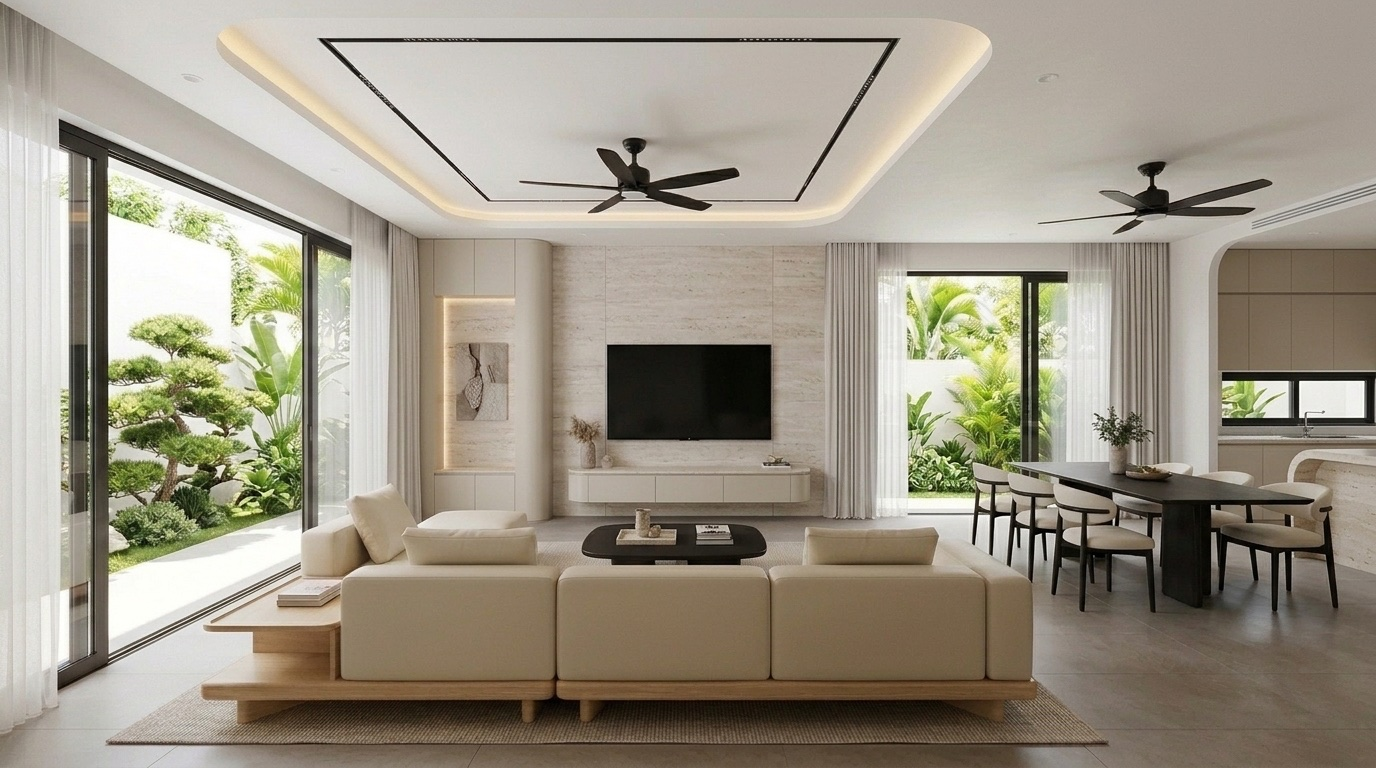
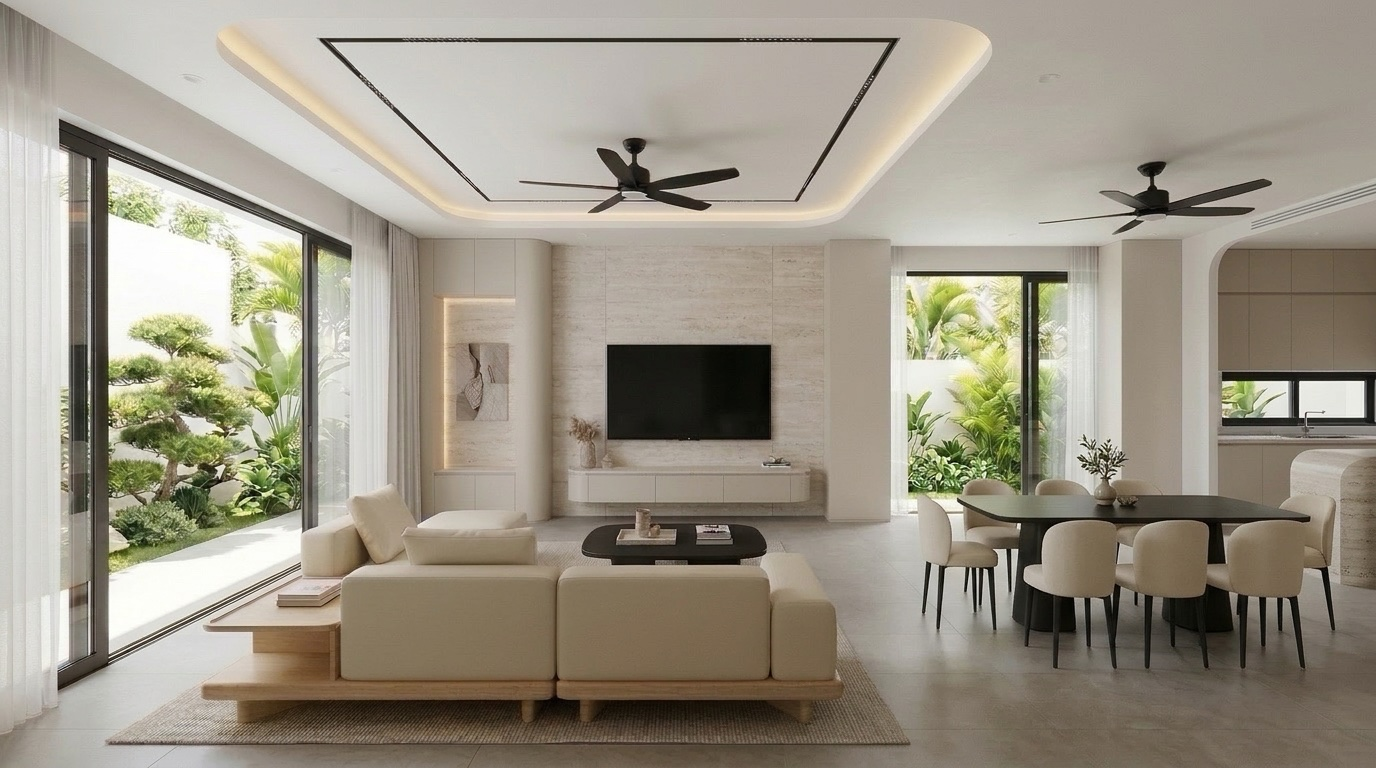
fix(living-t1): update PA 1 WM-06 V02 & V03 with exact lightwell walls, foyer walls, and spaced East-West dining table

diff --git a/phong-khach-bep-tang1.html b/phong-khach-bep-tang1.html
@@ -642,7 +642,6 @@
         <h2 class="section-title" style="margin-bottom:0;">✨ 1. Phối Cảnh 3D Đồng Bộ 100% Thực Tế Nhà Thật Tầng 1 (PA 1 Warm Minimalist WM-06 • Đủ 5 Góc V01 &rarr; V05)</h2>
         <div style="display:flex;gap:8px;flex-wrap:wrap;flex-wrap:balance;">
           <button type="button" class="tab-btn active" id="tone-switch-wm06" onclick="setT1Tone('wm06')" style="padding:7px 14px;border-radius:999px;border-color:#cbd5e1;">🕊 PA 1 (Ưu Tiên): Warm Minimalist WM-06</button>
-          <button type="button" class="tab-btn" id="tone-switch-mlux" onclick="setT1Tone('mlux')" style="padding:7px 14px;border-radius:999px;border-color:#f59e0b;background:linear-gradient(135deg,rgba(217,119,6,0.22),rgba(120,53,15,0.28));color:#fde68a;">💎 Modern Luxury Kiến Trúc (Molteni&amp;C): Đá Dover White × Gỗ Khuynh Diệp Khói &amp; Chuẩn Tường Xây CAD</button>
           <button type="button" class="tab-btn" id="tone-switch-studio349" onclick="setT1Tone('studio349')" style="padding:7px 14px;border-radius:999px;border-color:#f59e0b;">🪵 PA 2: Vân Gỗ &amp; Travertine</button>
           <button type="button" class="tab-btn" id="tone-switch-bt04" onclick="setT1Tone('bt04')" style="padding:7px 14px;border-radius:999px;border-color:#94a3b8;">🏙 Hiện Đại BT-04: Sồi Khói Ghi Mocha (Khớp Đá T2)</button>
           <button type="button" class="tab-btn" id="tone-switch-bt05" onclick="setT1Tone('bt05')" style="padding:7px 14px;border-radius:999px;border-color:#fb923c;">☀ Hiện Đại BT-05: Gỗ Caramel × Ghi Bazan (Khớp Lam T3)</button>
@@ -697,71 +696,10 @@
               Khoe trọn vân gỗ tự nhiên liền táp bên trái (tiết kiệm chi phí bọc da khung) trên nền gạch mờ <code>1000×1000mm</code>.
             </li>
             <li>
-              <strong>3. Chuẩn Xác 100% Công Năng Phía Phải:</strong>
-              Ngay cạnh Vách Tivi là <strong>Cửa kính lùa vườn Bắc <code>D2 (3.070mm)</code></strong> sau lưng Bàn ăn 8 ghế dưới <strong>trần phẳng <code>+3.40m</code> &amp; Quạt trần gỗ <code>Lộ 6A</code></strong>; phía xa mới tới dãy Bếp kính Be &amp; cửa sổ <code>S1A</code>!
+              <strong>3. Chuẩn Xác 100% Hốc Tường Thông Tầng <code>D2</code> &amp; Bàn Ăn Xoay Ngang Đông–Tây:</strong>
+              Ngay bên phải Vách Tivi là <strong>02 bức tường xây nhô vuông góc kẹp hai bên hốc cửa khu vực thông tầng <code>D2 (1.800mm)</code></strong>; phía trước là <strong>Bàn ăn 8 ghế xoay ngang Đông–Tây</strong> (song song tường Bắc &amp; cầu thang bộ) dưới trần phẳng <code>+3.40m</code> &amp; Quạt <code>Lộ 6A</code>!
             </li>
           </ul>
-        </div>
-      </div>
-
-      <!-- BREAKTHROUGH MODERN LUXURY COUTURE SHOWCASE -->
-      <div id="sec-mlux-breakthrough" style="margin-top:24px;padding:20px;border-radius:16px;background:linear-gradient(145deg,rgba(15,12,8,0.92),rgba(30,22,14,0.88));border:1.5px solid rgba(245,158,11,0.52);box-shadow:0 18px 40px rgba(0,0,0,0.6);">
-        <div style="display:flex;justify-content:space-between;align-items:center;flex-wrap:wrap;gap:12px;margin-bottom:14px;">
-          <div>
-            <span style="display:inline-block;font-size:0.73rem;font-weight:800;text-transform:uppercase;letter-spacing:0.06em;color:#fde68a;background:rgba(245,158,11,0.18);border:1px solid rgba(245,158,11,0.45);padding:3px 11px;border-radius:999px;margin-bottom:6px;">💎 MODERN LUXURY KIẾN TRÚC ĐƯƠNG ĐẠI (CHUẨN 100% TƯỜNG XÂY &amp; BÀN ĂN CAD)</span>
-            <h3 style="font-size:1.14rem;font-weight:800;color:#fff;margin-bottom:4px;">Italian Architectural Modern Luxury (Molteni&amp;C • Poliform • Rimadesio)</h3>
-            <p style="font-size:0.86rem;color:#cbd5e1;max-width:1050px;">Chuẩn hóa 100% theo bản vẽ xây dựng <code>KT-4.06</code> &amp; nội thất <code>KT-2.02</code>: <strong>(1) Chỗ cửa thông tầng <code>D2</code> có 2 bức tường xây nhô vuông góc kẹp hai bên hốc <code>1.800mm</code></strong>; <strong>(2) Khu Tiền sảnh <code>D1</code> có tường xây bao 2 bên tại <code>Trục 2</code> (ngăn với Cầu thang bộ) và <code>Trục 1'</code> (ngăn với vách kính <code>V1</code>)</strong>; <strong>(3) Bàn ăn 8 ghế xoay ngang Đông–Tây</strong> song song tường Bắc. Toàn bộ nội thất lột xác sang ngôn ngữ <strong>Đá Cẩm Thạch Dover White Mài Mờ × Gỗ Khuynh Diệp Khói (Smoked Eucalyptus) × Nẹp Đồng Đen Xước &amp; Sofa Chân Kim Loại Mảnh</strong>.</p>
-          </div>
-          <button type="button" class="tab-btn" onclick="setT1Tone('mlux')" style="border-color:#f59e0b;background:rgba(245,158,11,0.22);color:#fde68a;">✨ Bật Xem Trên Khung 3D Chính &uarr;</button>
-        </div>
-
-        <div style="display:grid;grid-template-columns:repeat(auto-fit,minmax(360px,1fr));gap:16px;margin-bottom:16px;">
-          <div style="background:rgba(9,13,22,0.85);border:1px solid rgba(245,158,11,0.45);border-radius:12px;overflow:hidden;cursor:pointer;" onclick="openLightbox('assets/modern_luxury_couture_t1_v02_living_north.jpg', 'Modern Luxury Kiến Trúc — V02 Nhìn Bắc: Vách Đá Dover White × Gỗ Khuynh Diệp Khói + 2 Bức Tường Kẹp Cửa Thông Tầng D2 & Bàn Ăn Xoay Ngang Đông–Tây')">
-            <img src="assets/modern_luxury_couture_t1_v02_living_north.jpg" alt="Modern Luxury V02 Phòng Khách nhìn Bắc: Đá Dover White, gỗ khuynh diệp khói, 2 bức tường kẹp cửa thông tầng D2 và bàn ăn xoay ngang Đông Tây" width="1376" height="768" loading="lazy" style="width:100%;aspect-ratio:16/9;object-fit:cover;display:block;" />
-            <div style="padding:11px 14px;font-size:0.82rem;line-height:1.5;color:#e2e8f0;">
-              <strong style="color:#fde68a;">1. Góc V02 (Nhìn Bắc — Chuẩn 2 Bức Tường Thông Tầng &amp; Bàn Ăn Xoay Ngang):</strong> Vách TV ốp đá tự nhiên <strong>Dover White / Calacatta Grey mài mờ</strong> kẹp 2 mảng <strong>Gỗ Khuynh Diệp Khói (Smoked Eucalyptus)</strong> hắt khe LED <code>3000K</code> &amp; kệ treo mặt đá Pietra Grey; bên phải thể hiện rõ <strong>02 bức tường xây nhô vuông góc kẹp hai bên hốc cửa khu vực thông tầng <code>D2</code></strong>; phía trước là <strong>Bàn ăn 8 ghế xoay ngang Đông–Tây</strong> (3 ghế trước, 3 ghế sau, 2 ghế đầu bàn).
-            </div>
-          </div>
-          <div style="background:rgba(9,13,22,0.85);border:1px solid rgba(245,158,11,0.45);border-radius:12px;overflow:hidden;cursor:pointer;" onclick="openLightbox('assets/modern_luxury_couture_t1_v03_living_reverse.jpg', 'Modern Luxury Kiến Trúc — V03 Góc Ngược 180°: Tường Bao Khu Tiền Sảnh Trục 1-2 + Sofa Chân Kim Loại Mảnh & Bàn Ăn Xoay Ngang')">
-            <img src="assets/modern_luxury_couture_t1_v03_living_reverse.jpg" alt="Modern Luxury V03 Phòng Khách góc ngược 180 độ: Khu tiền sảnh có tường ngăn cầu thang tại Trục 2 và tường góc Trục 1, sofa chân đồng mảnh và bàn ăn xoay ngang" width="1376" height="768" loading="lazy" style="width:100%;aspect-ratio:16/9;object-fit:cover;display:block;" />
-            <div style="padding:11px 14px;font-size:0.82rem;line-height:1.5;color:#e2e8f0;">
-              <strong style="color:#fde68a;">2. Góc V03 (Ngược 180° — Chuẩn Tường Bao Khu Tiền Sảnh &amp; Bàn Ăn Xoay Ngang):</strong> Phía sau Sofa thể hiện đúng <strong>bức tường xây tại <code>Trục 2</code> ngăn giữa Cầu thang bộ (trái) với Tiền sảnh (giữa)</strong> và <strong>bức tường góc <code>Trục 1'</code> che cửa chính <code>D1</code> bên phải</strong>; bên trong Tiền sảnh là tủ giày kịch trần <code>Smoked Eucalyptus × Dark Cashmere</code> + gương khung đồng chữ nhật; bên trái là <strong>Bàn ăn xoay ngang Đông–Tây</strong>.
-            </div>
-          </div>
-        </div>
-
-        <div class="table-wrap" style="margin-top:8px;">
-          <table class="spec-table" style="font-size:0.82rem;">
-            <thead>
-              <tr>
-                <th style="width:18%;">Hạng Mục Chuẩn Hóa</th>
-                <th style="width:34%;">4 Phương Án Cũ (WM-06 / PA 2 / BT-04 / BT-05)</th>
-                <th style="width:48%;">💎 Phương Án Modern Luxury Kiến Trúc (Molteni&amp;C / Poliform)</th>
-              </tr>
-            </thead>
-            <tbody>
-              <tr>
-                <td><strong>1. Hốc Cửa Thông Tầng D2 &amp; Tường Tiền Sảnh</strong></td>
-                <td>Vẽ cửa <code>D2</code> phẳng cùng mặt tường TV; Tiền sảnh thông tuột sang Cầu thang bộ không có tường ngăn.</td>
-                <td><strong>Đúng 100% mặt bằng xây dựng <code>KT-4.06</code>:</strong> Khu vực cửa thông tầng <code>D2 (1.800mm)</code> nằm lùi giữa <strong>02 bức tường xây vuông góc hai bên</strong>; khu Tiền sảnh có <strong>bức tường xây <code>Trục 2</code> ngăn cách hẳn với Cầu thang bộ</strong> và <strong>tường góc <code>Trục 1–1'</code></strong> bao quanh cửa chính <code>D1</code>.</td>
-              </tr>
-              <tr>
-                <td><strong>2. Hướng Bàn Ăn 8 Ghế</strong></td>
-                <td>Đặt dọc Bắc–Nam (vuông góc với cửa thông tầng <code>D2</code>).</td>
-                <td><strong>Xoay ngang Đông–Tây đúng bản vẽ <code>KT-2.02 &amp; CĐ-11</code>:</strong> Chiều dài bàn <code>2.200mm</code> chạy ngang song song với cửa thông tầng <code>D2</code> và cầu thang bộ (3 ghế mặt trước, 3 ghế mặt sau, 1 ghế đầu Tây hướng Phòng khách, 1 ghế đầu Đông hướng Bàn đảo).</td>
-              </tr>
-              <tr>
-                <td><strong>3. Vách Tivi &amp; Kệ Console</strong></td>
-                <td>Đá <code>Travertine</code> màu be + cột bo tròn <code>R100</code> bên trái + kệ gỗ bo tròn <code>R60</code>.</td>
-                <td><strong>Kiến trúc phẳng sắc nét (Molteni&amp;C):</strong> Trung tâm ốp tấm đá cẩm thạch tự nhiên <strong>Dover White / Calacatta Grey mài mờ</strong>; hai bên kẹp vách <strong>Gỗ Khuynh Diệp Khói (Smoked Eucalyptus)</strong> phẳng nẹp đồng đen xước hắt khe sáng dọc <code>3000K</code>; kệ TV treo <strong>mặt đá Pietra Grey kết hợp gỗ khói vát cạnh 45°</strong>.</td>
-              </tr>
-              <tr>
-                <td><strong>4. Tổ Hợp Sofa, Ghế Đơn &amp; Bàn Trà</strong></td>
-                <td>Sofa khung bệ gỗ dày bo góc <code>R60</code>.</td>
-                <td><strong>Sofa chữ L chân kim loại đồng đen thanh mảnh (Molteni&amp;C Cleo / Minotti West):</strong> Đệm bọc vải Bouclé-Chenille tông <code>Taupe-Greige</code> phối gối tựa &amp; khay táp <strong>da bò Saddle Cognac</strong>, kết hợp <strong>01 ghế Armchair lưng cong</strong> và bàn trà đôi 2 tầng <strong>đá đen Pietra Grey + gỗ khói</strong>.</td>
-              </tr>
-            </tbody>
-          </table>
         </div>
       </div>
     </section>
@@ -1120,39 +1058,23 @@
         imgBt04: "assets/boutique_bt04_greigemocha_t1_v02.jpg",
         imgBt05: "assets/boutique_bt05_caramelbasalt_t1_v02.jpg",
         imgWm06: "assets/warm_minimalist_wm06_t1_v02.jpg",
-        imgMlux: "assets/modern_luxury_couture_t1_v02_living_north.jpg",
-        caption: "V02 • Phòng Khách nhìn Bắc: Vách Tivi đá Travertine 3,2m & hốc gốm bo cong, bên phải khớp đúng Cửa vườn Bắc D2 + Bàn ăn dưới trần phẳng +3.40m & Quạt Lộ 6 / 6A",
-        captionMlux: "V02 • Phòng Khách nhìn Bắc (Modern Luxury Kiến Trúc): Vách đá Dover White × Gỗ Khuynh Diệp Khói + Đúng 02 bức tường xây kẹp cửa khu vực thông tầng D2 & Bàn ăn 8 ghế xoay ngang Đông–Tây",
-        title: "V02 • Phòng Khách Nhìn Bắc: Vách Tivi Đá Travertine 3.200mm & Liên Thông Đúng Cửa Vườn Bắc D2",
-        titleMlux: "V02 • Modern Luxury Kiến Trúc (Molteni&C): Đá Dover White × Gỗ Khuynh Diệp Khói + 2 Bức Tường Kẹp Cửa Thông Tầng D2 & Bàn Ăn Xoay Ngang",
+        caption: "V02 • Phòng Khách nhìn Bắc: Vách Tivi đá Travertine 3,2m & hốc gốm bo cong, bên phải khớp đúng 02 bức tường xây kẹp cửa thông tầng D2 + Bàn ăn 8 ghế xoay ngang Đông–Tây dưới trần phẳng +3.40m & Quạt Lộ 6 / 6A",
+        title: "V02 • Phòng Khách Nhìn Bắc: Vách Tivi Đá Travertine 3.200mm • 02 Bức Tường Hốc Thông Tầng D2 & Bàn Ăn Xoay Ngang",
         items: [
           "<strong>1. Vách Tivi Tường Bắc <code>Roman Travertine</code> &amp; Kem Greige / Gỗ Bo Cong (<code>3.200 × 3.400 mm</code>):</strong> Mảng đá <code>Travertine</code> liền mạch kết hợp cột bo tròn có hốc trưng bày gốm hắt LED <code>2700K</code> + kệ treo bo <code>R60</code>.",
           "<strong>2. Sofa Bệ Gỗ Sáng / Óc Chó Bo <code>R60</code> (<code>2.800 × 1.850 mm</code>):</strong> Khung bệ gỗ liền khay táp bên trái trên nền gạch mờ <code>1000×1000</code> + bàn trà đen mờ 10%.",
-          "<strong>3. Chuẩn xác 100% Khu Ăn – Bếp phía phải:</strong> Cửa kính lùa vườn Bắc <code>D2 (3.070mm)</code> sau lưng Bàn ăn 8 ghế dưới trần phẳng <code>+3.40m</code> &amp; Quạt <code>Lộ 6A</code>."
-        ],
-        itemsMlux: [
-          "<strong>1. Vách Tivi Đá Cẩm Thạch Dover White &amp; Gỗ Khuynh Diệp Khói (<code>Smoked Eucalyptus</code>):</strong> Loại bỏ cột bo tròn &amp; đá Travertine cũ; thay bằng tấm đá tự nhiên <strong>Dover White / Calacatta Grey mài mờ</strong> kẹp giữa hai mảng vách gỗ <code>Smoked Eucalyptus</code> nẹp chỉ đồng đen xước hắt khe sáng dọc <code>3000K</code> và kệ treo mặt đá đen <code>Pietra Grey</code> sắc nét.",
-          "<strong>2. Chuẩn Xác 02 Bức Tường Xây Kẹp Cửa Khu Vực Thông Tầng <code>D2</code> (Đúng <code>KT-4.06</code>):</strong> Ngay bên phải Vách TV là <strong>02 bức tường xây đặc nhô vuông góc</strong> vào trong nhà tạo hốc thông tầng rộng <code>1.800 mm</code>, cửa kính <code>D2</code> nằm lùi giữa 2 bức tường này mở ra mảng xanh giếng trời.",
-          "<strong>3. Bàn Ăn 8 Ghế Xoay Ngang Đông–Tây &amp; Sofa Chân Kim Loại Mảnh (Đúng <code>KT-2.02</code>):</strong> Bàn ăn mặt đá <code>Pietra Grey</code> xoay ngang song song tường Bắc (3 ghế trước, 3 ghế sau, 2 ghế đầu bàn); phòng khách dùng <strong>Sofa chữ L chân đồng đen mảnh (Molteni&amp;C)</strong> phối đệm da Cognac, ghế đơn Armchair và bàn trà đá 2 tầng."
+          "<strong>3. Chuẩn xác 100% Hốc Tường Thông Tầng <code>D2</code> &amp; Bàn Ăn Xoay Ngang Đông–Tây (<code>KT-4.06 &amp; KT-2.02</code>):</strong> Ngay bên phải Vách TV là <strong>02 bức tường xây nhô vuông góc kẹp hai bên cửa kính thông tầng <code>D2 (1.800mm)</code></strong>; phía trước đặt <strong>Bàn ăn 8 ghế xoay ngang Đông–Tây</strong> (3 ghế mặt trước, 3 ghế mặt sau, 2 ghế đầu bàn) dưới trần phẳng <code>+3.40m</code> &amp; Quạt <code>Lộ 6A</code>."
         ]
       },
       v03_living_reverse: {
         img349: "assets/wow_t1_v03_living_reverse.jpg",
         imgWm06: "assets/warm_minimalist_wm06_t1_v03_living_rev.jpg",
-        imgMlux: "assets/modern_luxury_couture_t1_v03_living_reverse.jpg",
-        caption: "V03 • Phòng Khách góc ngược 180° (nhìn Nam-Tây): Mặt trước Sofa bệ gỗ, phía sau khớp 1:1 Tiền sảnh vòm Travertine D1 & bên trái là Cầu thang bộ lên T2",
-        captionMlux: "V03 • Phòng Khách góc ngược 180° (Modern Luxury Kiến Trúc): Đúng tường xây bao Tiền sảnh tại Trục 2 (ngăn Cầu thang) & Trục 1' (che cửa D1) + Sofa chân kim loại mảnh & Bàn ăn xoay ngang Đông–Tây",
-        title: "V03 • Phòng Khách Góc Ngược: Mặt Trước Sofa Bệ Gỗ, Tiền Sảnh V01 & Cầu Thang Bộ",
-        titleMlux: "V03 • Modern Luxury Kiến Trúc (Góc Ngược 180°): Chuẩn Tường Bao Khu Tiền Sảnh Trục 1'–2 • Sofa Molteni&C & Bàn Ăn Xoay Ngang",
+        caption: "V03 • Phòng Khách góc ngược 180° (nhìn Nam-Tây): Mặt trước Sofa bệ gỗ, phía sau khớp 1:1 tường xây bao khu Tiền sảnh (Trục 2 ngăn Cầu thang & Trục 1' che cửa D1) & bên trái là Bàn ăn xoay ngang Đông–Tây",
+        title: "V03 • Phòng Khách Góc Ngược: Mặt Trước Sofa Bệ Gỗ • Chuẩn Tường Bao Khu Tiền Sảnh V01 & Bàn Ăn Xoay Ngang",
         items: [
           "<strong>1. Toàn Cảnh Mặt Trước Sofa Bệ Gỗ Bo <code>R60</code> (<code>2.800 × 1.850 mm</code>):</strong> Liền khay táp gỗ bên phải sát vách kính Bonsai <code>V1</code>, đệm trơn dễ vệ sinh.",
-          "<strong>2. Phía Sau Sofa Khớp 1:1 Với Tiền Sảnh V01:</strong> Thấy trực diện <code>Tủ giày phẳng Kem Greige / Cashmere + Gương hữu cơ đá Travertine</code> cùng <code>Cửa chính D1 PA 1B</code>.",
-          "<strong>3. Bên Trái:</strong> Cầu thang bộ bậc gỗ hắt LED + tủ gầm thang phẳng &amp; lối vào <code>WC-01</code>."
-        ],
-        itemsMlux: [
-          "<strong>1. Chuẩn Xác Tường Xây Bao Khu Tiền Sảnh (<code>Trục 2</code> &amp; <code>Trục 1'</code> theo <code>KT-4.06</code>):</strong> Phía sau lưng Sofa thể hiện đúng <strong>bức tường xây đặc tại <code>Trục 2</code> ngăn cách hoàn toàn khu Tiền sảnh với Cầu thang bộ bên trái</strong>, cùng <strong>bức tường góc <code>Trục 1–1'</code> bên phải</strong> tách biệt cửa chính <code>D1</code> khỏi vách kính <code>V1</code>.",
-          "<strong>2. Tiền Sảnh Modern Luxury &amp; Tủ Giày Gỗ Khói <code>Smoked Eucalyptus</code>:</strong> Nhìn qua khung cổng Tiền sảnh (có ô trần giật cấp riêng) là hệ tủ giày kịch trần <code>2.500×3.400mm</code> phối gỗ khói &amp; sơn mờ <code>Dark Cashmere</code>, hốc đá <code>Dover White</code> hắt sáng, gương đứng khung đồng chữ nhật và ghế thay giày da Cognac bên cạnh cửa <code>D1</code>.",
-          "<strong>3. Bàn Ăn Bên Trái Xoay Ngang Đông–Tây &amp; Sofa Chữ L Chân Đồng Mảnh:</strong> Bàn ăn trước cầu thang xoay ngang đúng chiều dọc nhà (ghế đầu bàn hướng về Phòng khách); chính giữa là Sofa chữ L chân kim loại mảnh kèm khay táp da bò Cognac &amp; bàn trà đá <code>Pietra Grey</code> 2 tầng."
+          "<strong>2. Chuẩn Xác Tường Xây Bao Khu Tiền Sảnh V01 (<code>Trục 2</code> &amp; <code>Trục 1'</code> theo <code>KT-4.06</code>):</strong> Phía sau Sofa thể hiện đúng <strong>bức tường xây đặc tại <code>Trục 2</code> ngăn cách khu Tiền sảnh với Cầu thang bộ</strong> và <strong>bức tường góc <code>Trục 1'</code></strong> bao quanh cửa gỗ <code>D1 PA 1B</code> lùi bên phải, bên trong là <code>Tủ giày phẳng Kem Greige + Vòm đá Travertine &amp; Gương hữu cơ phát sáng</code>.",
+          "<strong>3. Bên Trái:</strong> <strong>Bàn ăn 8 ghế xoay ngang Đông–Tây</strong> (đầu bàn hướng về Phòng khách) trước Cầu thang bộ bậc gỗ hắt LED + tủ gầm thang phẳng &amp; lối vào <code>WC-01</code>."
         ]
       },
       v01_foyer: {
@@ -1212,14 +1134,11 @@
 
     function setT1Tone(tone) {
       currentT1Tone = tone;
-      ["wm06", "mlux", "studio349", "bt04", "bt05"].forEach(t => {
+      ["wm06", "studio349", "bt04", "bt05"].forEach(t => {
         const el = document.getElementById("tone-switch-" + t);
         if (el) el.classList.toggle("active", tone === t);
       });
       if ((tone === "bt04" || tone === "bt05") && currentT1Key !== "v02_living_north") {
-        currentT1Key = "v02_living_north";
-      }
-      if (tone === "mlux" && !["v02_living_north", "v03_living_reverse"].includes(currentT1Key)) {
         currentT1Key = "v02_living_north";
       }
       switch3D(currentT1Key);
@@ -1231,23 +1150,14 @@
       currentT1Key = key;
       let resolvedSrc = data.img;
       let tonePrefix = "";
-      let resolvedCaption = data.caption;
-      let resolvedTitle = data.title;
-      let resolvedItems = data.items;
       if (!data.img) {
-        if (currentT1Tone === "mlux" && data.imgMlux) {
-          resolvedSrc = data.imgMlux;
-          tonePrefix = "💎 Modern Luxury Kiến Trúc (Molteni&C • Đá Dover White × Gỗ Khuynh Diệp Khói & Chuẩn Tường Xây CAD) — ";
-          resolvedCaption = data.captionMlux || data.caption;
-          resolvedTitle = data.titleMlux || data.title;
-          resolvedItems = data.itemsMlux || data.items;
-        } else if (currentT1Tone === "bt04") {
+        if (currentT1Tone === "bt04") {
           resolvedSrc = data.imgBt04 || data.imgWm06 || data.img349;
           tonePrefix = data.imgBt04 ? "🏙 Hiện Đại BT-04 (Sồi Khói Ghi Mocha LK 10902 I / Karma Raw — Khớp Đá Ghi T2) — " : "🕊 PA 1 WM-06 — ";
         } else if (currentT1Tone === "bt05") {
           resolvedSrc = data.imgBt05 || data.imgWm06 || data.img349;
           tonePrefix = data.imgBt05 ? "☀ Hiện Đại BT-05 (Gỗ Caramel Sọc Thẳng × Cánh Ghi Bazan — Khớp Lam Gỗ T3) — " : "🕊 PA 1 WM-06 — ";
-        } else if (currentT1Tone === "wm06" || currentT1Tone === "mlux") {
+        } else if (currentT1Tone === "wm06") {
           resolvedSrc = data.imgWm06 || data.img349;
           tonePrefix = data.imgWm06 ? "🕊 PA 1 Warm Minimalist WM-06 (70% Kem Greige Phẳng Mờ × Travertine × Chỉ Đen 10%) — " : "🪵 PA 2 Vân Gỗ & Travertine — ";
         } else {
@@ -1256,12 +1166,12 @@
         }
       }
       document.getElementById("main-3d-img").src = resolvedSrc;
-      document.getElementById("main-3d-caption").textContent = tonePrefix + resolvedCaption;
+      document.getElementById("main-3d-caption").textContent = tonePrefix + data.caption;
       const infoEl = document.getElementById("main-3d-info");
       infoEl.innerHTML = `
-        <h3>${resolvedTitle}</h3>
+        <h3>${data.title}</h3>
         <ul class="check-list">
-          ${resolvedItems.map(it => `<li>${it}</li>`).join("")}
+          ${data.items.map(it => `<li>${it}</li>`).join("")}
         </ul>
       `;
       document.querySelectorAll("#sec-3d .tab-bar .tab-btn").forEach(btn => btn.classList.remove("active"));
